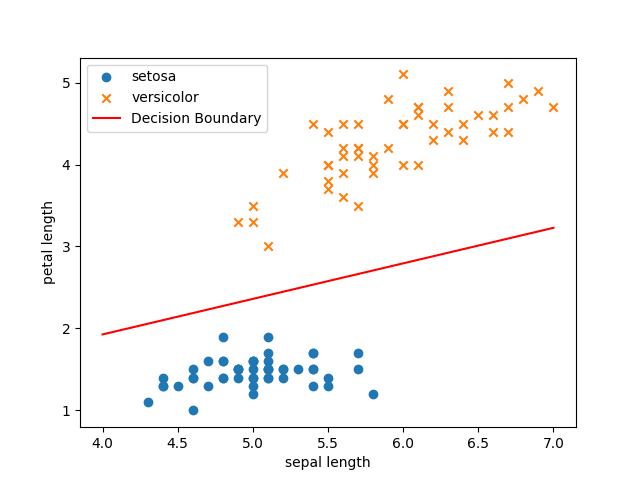
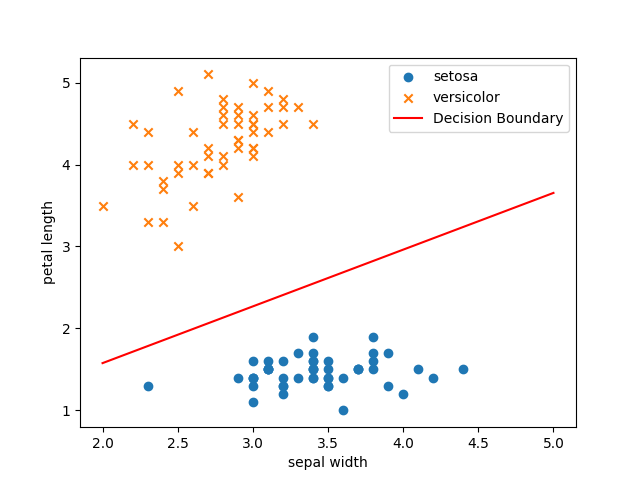
corrected P10's Graph AI

diff --git a/AI/P10_PerceptronModel/main.py b/AI/P10_PerceptronModel/main.py
@@ -1,11 +1,9 @@
-from typing import Type
 import numpy as np
 import pandas as pd
 import matplotlib.pyplot as plt
 
 def load_and_process_data() -> np.matrix:
     import pathlib
-    pathlib.Path(__file__).parent.absolute()
     df = pd.read_csv((str(pathlib.Path(__file__).parent.absolute()) + '/iris.csv'), header=None)
     df[4] = np.where(df[4] == 'Iris-setosa', 0, 1)
     return np.asmatrix(df, dtype='float64')
@@ -17,17 +15,16 @@ test_data = np.concatenate((data[45:50, :], data[95:100, :]), axis=0)
 benchmark = np.concatenate((data[49, :], data[99, :]), axis=0)
 
 class Perceptron:    
-    def __init__(self, learning_rate: float = 0.1, inputs: int = 4, output_index = 4, benchmark = None):
+    def __init__(self, learning_rate: float = 0.1, inputs: int = 4, output_index = 4):
         self.learning_rate = learning_rate
         self.weights = tuple([0 for _ in range(inputs)])
         self.bias = 0
-        self.benchmark = benchmark
         self.output_index = output_index
         
     def activation(self, values) -> int:
         return 1 if sum([w * v for w, v in zip(self.weights, values)]) + self.bias > 0 else 0
     
-    def train(self, data, epochs: int = 5):
+    def train(self, data, benchmark = None, epochs: int = 5):
         for i in range(epochs):
             for d in data:
                 values = d.tolist()[0]
@@ -36,12 +33,12 @@ class Perceptron:
                 self.weights = tuple([w + self.learning_rate * error * v for w, v in zip(self.weights, values[:self.output_index])])
                 self.bias += self.learning_rate * error
             
-            if self.benchmark is not None:
+            if benchmark is not None:
                 print(F"Epoch: {i}\n----------")
                 print('Weights: ', end="")
                 print(["{:.2f}".format(w) for w in self.weights])
                 print(f"Bias: {self.bias}")
-                for j, _b in enumerate(self.benchmark):
+                for j, _b in enumerate(benchmark):
                     b = _b.tolist()[0]
                     prediction = self.activation(b[:self.output_index])
                     error = b[self.output_index] - prediction
@@ -54,23 +51,19 @@ class Perceptron:
             print(f'Predicted: {self.activation(d[:self.output_index])} | Actual: {d[self.output_index]}')
     
 
-perceptron = Perceptron(benchmark=benchmark)
+perceptron = Perceptron()
 print("[] Training Perceptron")
-perceptron.train(training_data)
+perceptron.train(training_data, benchmark)
 print("[] Test cases: ")
 perceptron.test(test_data)
 
-#   x-y     sepal length            petal length
-plt.scatter(np.array(data[:50, 0]), np.array(data[:50, 2]), marker='o', label='setosa')
-plt.scatter(np.array(data[50:, 0]), np.array(data[50:, 2]), marker='x', label='versicolor')
-plt.xlabel('sepal length')
+#   x-y     sepal width            petal length
+plt.scatter(np.array(data[:50, 1]), np.array(data[:50, 2]), marker='o', label='setosa')
+plt.scatter(np.array(data[50:, 1]), np.array(data[50:, 2]), marker='x', label='versicolor')
+plt.xlabel('sepal width')
 plt.ylabel('petal length')
 
-min_y = min(np.array(data[:, 2]))
-max_y = max(np.array(data[:, 2]))
-y_scale = ((max_y - min_y)/2)
-
-slope = (-(perceptron.bias)/(perceptron.weights[2])) / ((perceptron.bias)/(perceptron.weights[0]))
-plt.plot([4, 7], (y_scale * slope * np.array([4, 7])) + (-perceptron.bias / perceptron.weights[2]), label='Decision Boundary', color='red')
+slope = (-(perceptron.bias)/(perceptron.weights[2])) / ((perceptron.bias)/(perceptron.weights[1]))
+plt.plot([2, 5], (slope * np.array([2, 5])) + (-perceptron.bias / perceptron.weights[2]), label='Decision Boundary', color='red')
 plt.legend()
 plt.show()
